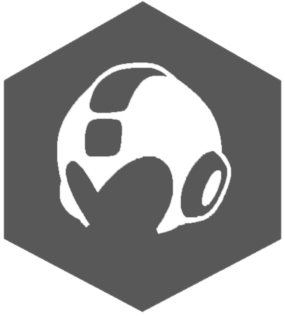
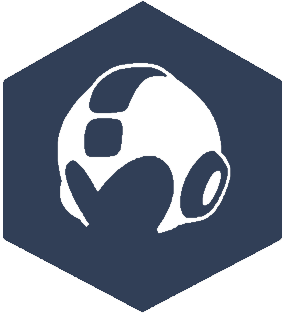
Made a copy of the megaman helmet for editing/transition. Updated other colors.

diff --git a/assets/css/main.css b/assets/css/main.css
@@ -152,7 +152,7 @@ input, select, textarea {
 
 		a:hover {
 			border-bottom-color: transparent;
-			color: #7bd0c1 !important;
+			color: #7FFFD4 !important;
 		}
 
 	strong, b {
@@ -3385,14 +3385,14 @@ input, select, textarea {
 .tabs ul li {
     padding: 10px;
     cursor: pointer;
-    background-color: #333;
+    background-color: #313f57;
     margin-bottom: 2px;
     color: #fff;
     transition: background-color 0.3s; /* Smooth transition for hover effect */
 }
 
 .tabs ul li:hover {
-    background-color: #555; /* Darker background on hover */
+    background-color: #6C757D; /* lighter background on hover */
 }
 
 .tabs ul li.active {
@@ -3404,7 +3404,7 @@ input, select, textarea {
 	flex-grow: 1;
     width: calc(100% - 200px); /* Adjust width based on the sidebar width */
     padding: 20px;
-    background-color: #333;
+    background-color: #313f57;
     display: none;
     margin-left: auto; /* Align content to the right */
     flex-grow: 1; /* Allow content to grow to fill space */
@@ -3429,7 +3429,7 @@ input, select, textarea {
 
 .tab-content a:hover {
 	border-bottom-color: transparent;
-	color: #7bd0c1 !important;
+	color: #FF6F61 !important;
 }
 
 
